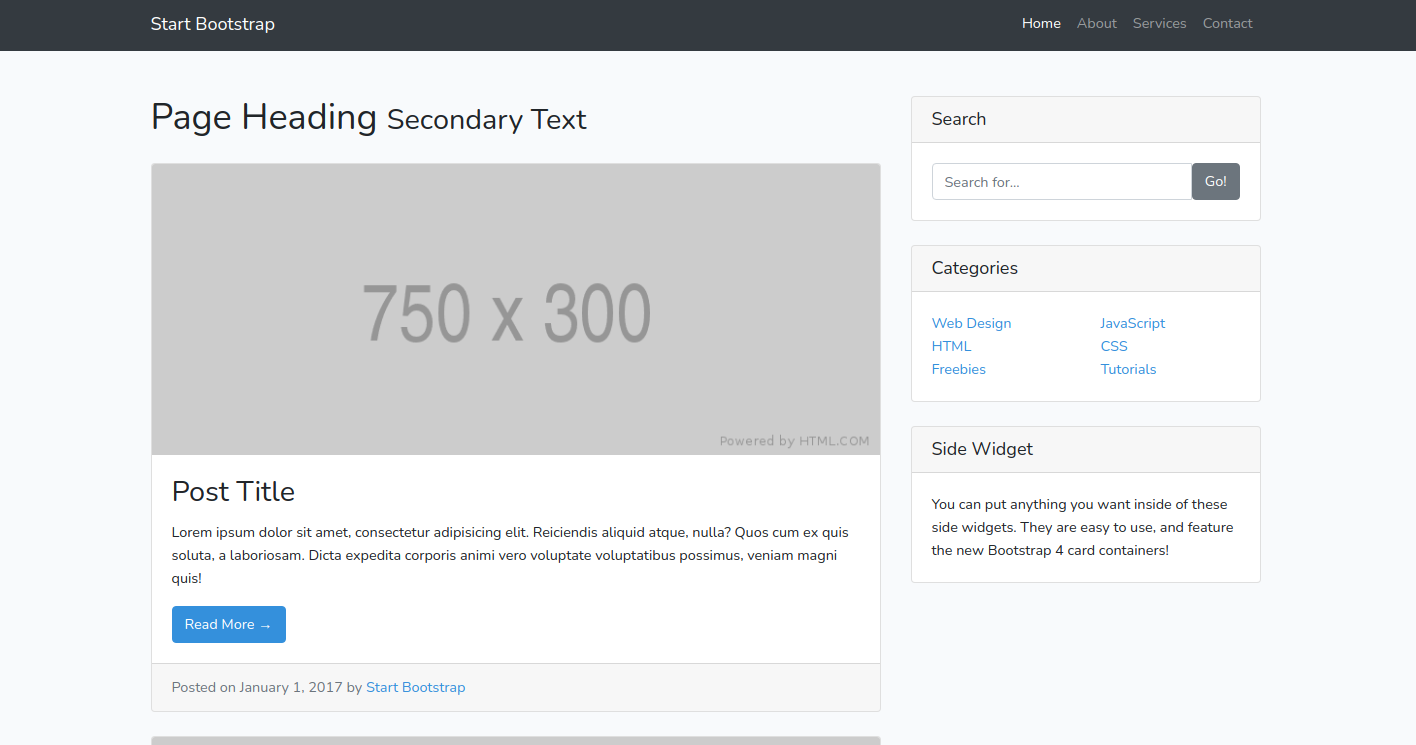
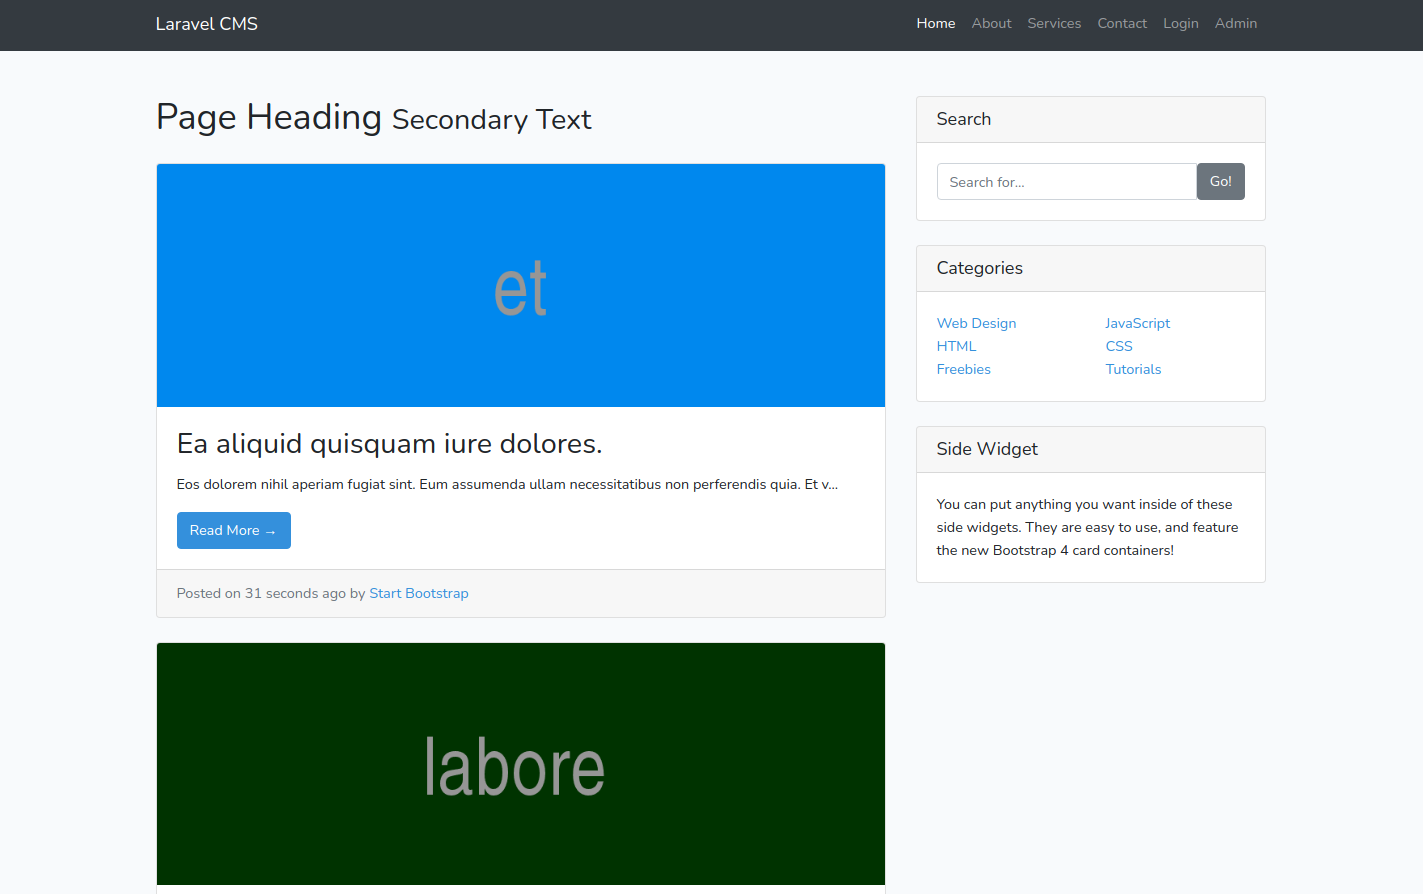
Displaying individual posts

diff --git a/resources/views/post.blade.php b/resources/views/post.blade.php
@@ -8,18 +8,16 @@
 
   <!-- Blog Post -->
   <div class="card mb-4">
-    <img class="card-img-top" src="http://placehold.it/750x300" alt="Card image cap">
+    <img class="card-img-top" src="{{$post->post_image}}" alt="Card image cap">
     <div class="card-body">
-      <h2 class="card-title">Post Title</h2>
-      <p class="card-text">Lorem ipsum dolor sit amet, consectetur adipisicing elit. Reiciendis aliquid atque, nulla? Quos cum ex quis soluta, a laboriosam. Dicta expedita corporis animi vero voluptate voluptatibus possimus, veniam magni quis!</p>
-      <a href="#" class="btn btn-primary">Read More &rarr;</a>
+      <h2 class="card-title">{{$post->title}}</h2>
+      <p class="card-text">{{$post->body}}</p>
     </div>
     <div class="card-footer text-muted">
-      Posted on January 1, 2017 by
-      <a href="#">Start Bootstrap</a>
+      Posted on {{$post->created_at->diffForHumans()}} by
+      <a href="#">{{$post->user->name}}</a>
     </div>
   </div>
-
 
   <!-- Pagination -->
   <ul class="pagination justify-content-center mb-4">

diff --git a/resources/views/home.blade.php b/resources/views/home.blade.php
@@ -12,11 +12,11 @@
         <div class="card-body">
           <h2 class="card-title">{{$post->title}}</h2>
           <p class="card-text">{{Str::limit($post->body, '100')}}</p>
-          <a href="#" class="btn btn-primary">Read More &rarr;</a>
+          <a href="{{route('post', $post->id)}}" class="btn btn-primary">Read More &rarr;</a>
         </div>
         <div class="card-footer text-muted">
           Posted on {{$post->created_at->diffForHumans()}} by
-          <a href="#">Start Bootstrap</a>
+          <a href="#">{{$post->user->name}}</a>
         </div>
       </div>
     @endforeach

diff --git a/routes/web.php b/routes/web.php
@@ -8,4 +8,4 @@ Route::get('/', [App\Http\Controllers\HomeController::class, 'index'])->name('ho
 
 Route::get('/admin', [App\Http\Controllers\AdminController::class, 'index'])->name('admin.index');
 
-Route::get('/post', [App\Http\Controllers\PostController::class, 'show'])->name('post');
+Route::get('/post/{post}', [App\Http\Controllers\PostController::class, 'show'])->name('post');

diff --git a/app/Http/Controllers/PostController.php b/app/Http/Controllers/PostController.php
@@ -3,10 +3,12 @@
 namespace App\Http\Controllers;
 
 use Illuminate\Http\Request;
+use App\Models\Post;
 
 class PostController extends Controller
 {
-    public function show() {
-        return view('post');
+    public function show(Post $post) {
+
+        return view('post', ['post' => $post]);
     }
 }

diff --git a/app/Http/Controllers/HomeController.php b/app/Http/Controllers/HomeController.php
@@ -24,7 +24,6 @@ class HomeController extends Controller
      */
     public function index()
     {
-
         $posts = Post::orderBy('id', 'DESC')->get();
 
         return view('home', ['posts' => $posts]);
